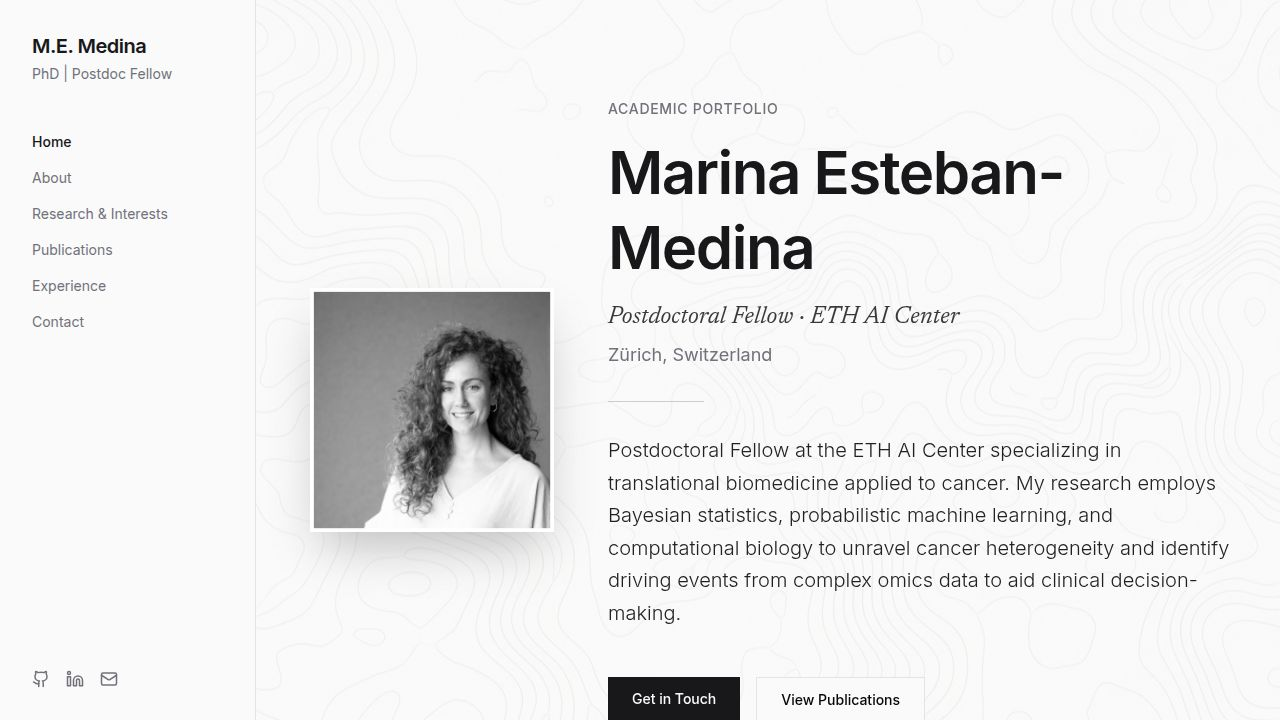
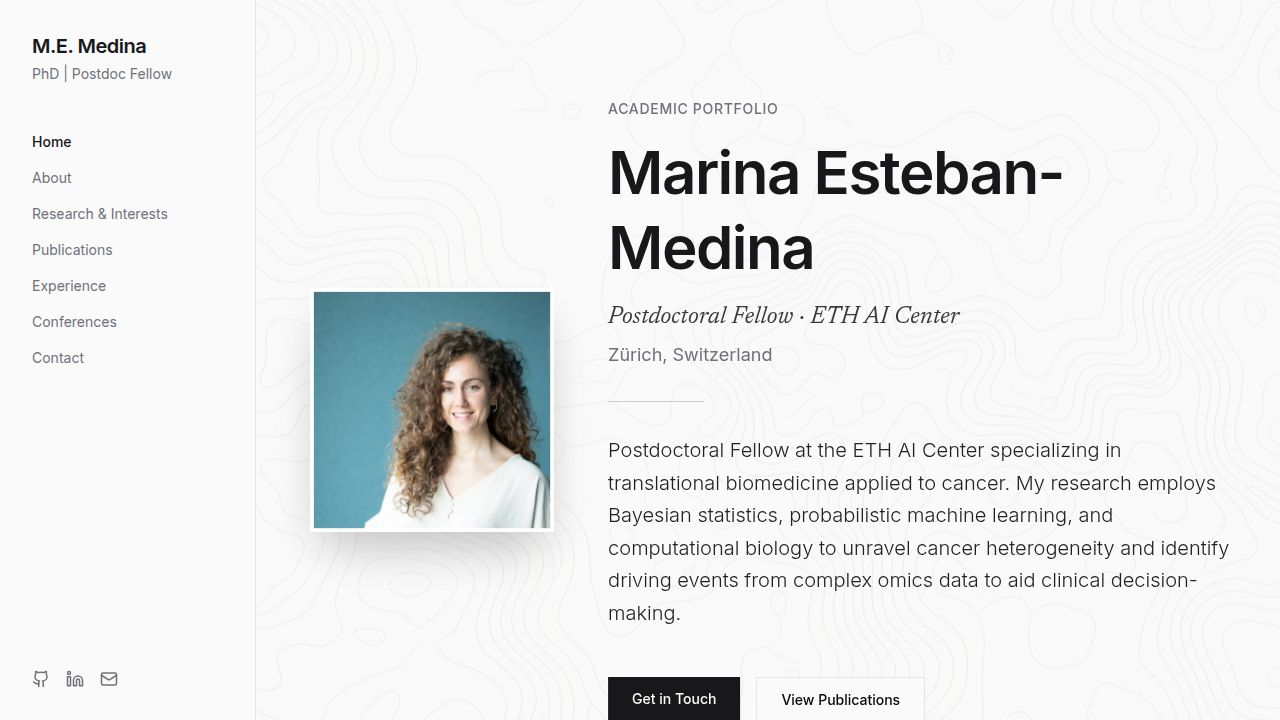
Add a section for conferences and academic activities
Introduce a new section to display conferences and academic activities, updating data, components, and navigation.

Replit-Commit-Author: Agent
Replit-Commit-Session-Id: 6c38c1ce-d5bb-4b51-ac87-3ee7aa7d4fb6
Replit-Commit-Checkpoint-Type: full_checkpoint
Replit-Commit-Event-Id: 6b08292f-4f81-44f9-a44a-18d3fc9d34d5
Replit-Commit-Screenshot-Url: https://storage.googleapis.com/screenshot-production-us-central1/cc16261b-1624-4cca-9d3c-ff93480edf78/6c38c1ce-d5bb-4b51-ac87-3ee7aa7d4fb6/4Ml0N1j
Replit-Helium-Checkpoint-Created: true

diff --git a/client/src/data/cv.ts b/client/src/data/cv.ts
@@ -15,6 +15,33 @@ export const cv = {
       scholar: "https://scholar.google.com/citations?user=shSxsNIAAAAJ&hl=en"
     }
   },
+  conferences: [
+    { date: "October 2025", name: "Mathematical foundations of trustworthy Machine learning", location: "ETH Zürich, Ascona, Switzerland" },
+    { date: "September 2025", name: "Basel Computational Biology Conference (BC2)", location: "Basel, Switzerland" },
+    { date: "November 2024", name: "ELIXIR Biohackathon Europe", location: "Barcelona, Spain" },
+    { date: "November 2024", name: "Jornadas Andaluzas de Bioinformática II", location: "Granada, Spain" },
+    { date: "October 2023", name: "ELIXIR Biohackathon Europe", location: "Barcelona, Spain" },
+    { date: "September 2023", name: "6th Course on Computational Systems Biology of Cancer", location: "Paris, France" },
+    { date: "September 2023", name: "Jornadas Andaluzas de Bioinformática", location: "Sevilla, Spain" },
+    { date: "April 2023", name: "The 7th Disease Maps Community Meeting", location: "Maastricht, the Netherlands" },
+    { date: "November 2022", name: "First FEBS-IUBMB-ENABLE conference", location: "Seville, Spain" },
+    { date: "July 2022", name: "Radboudumc Ph.D. conference", location: "Nijmegen, Netherlands" },
+    { date: "June 2022", name: "European Association for Cancer Research 2022 Congress", location: "Sevilla, Spain" },
+    { date: "May 2022", name: "XV Reunión Anual CIBERER", location: "Spain" },
+    { date: "March 2022", name: "VI Jornadas de Bioinformática", location: "Granada, Spain" },
+    { date: "November 2021", name: "6th Disease Maps Community Meeting", location: "Online" },
+    { date: "July 2021", name: "ISMB/ECCB 2021", location: "Online" },
+    { date: "July 2021", name: "CIBERER XIV Annual meeting", location: "Online" },
+    { date: "April 2021", name: "The 4th MAQC Society Meeting", location: "Online" },
+    { date: "March 2021", name: "XVII Foro de Investigadores", location: "Sevilla, Spain" },
+    { date: "February 2021", name: "IV Spanish Bioinformatic conference", location: "Granada, Spain" },
+    { date: "November 2020", name: "BioHackathon 2020", location: "Online" },
+    { date: "April 2020", name: "EUvsVirus Hackathon", location: "Online" },
+    { date: "November 2019", name: "Advanced in computational biology (AdvCompBio 2019)", location: "Barcelona, Spain" },
+    { date: "November 2019", name: "Biohackathon Europe", location: "Paris, France" },
+    { date: "October 2019", name: "4th Disease Maps Community Meeting (DMCM2019)", location: "Sevilla, Spain" },
+    { date: "December 2018", name: "XIV Symposium on Bioinformatics", location: "Granada, Spain" }
+  ],
   education: [
     {
       degree: "PhD",

diff --git a/client/src/components/Conferences.tsx b/client/src/components/Conferences.tsx
@@ -1,0 +1,45 @@
+import { cv } from "@/data/cv";
+import { motion } from "framer-motion";
+
+export function Conferences() {
+  const conferences = (cv as any).conferences || [];
+
+  return (
+    <section id="conferences" className="py-24 bg-background">
+      <div className="container px-6 md:px-12">
+        <motion.div
+          initial={{ opacity: 0, y: 20 }}
+          whileInView={{ opacity: 1, y: 0 }}
+          viewport={{ once: true }}
+          transition={{ duration: 0.6 }}
+        >
+          <h2 className="text-3xl font-bold mb-12 flex items-center gap-4">
+            <span className="w-8 h-px bg-primary/20"></span>
+            Conferences & Academic Activities
+          </h2>
+
+          <div className="grid grid-cols-1 gap-6">
+            {conferences.map((conf: any, idx: number) => (
+              <div 
+                key={idx}
+                className="group flex flex-col md:flex-row md:items-center gap-2 md:gap-8 p-4 border border-border hover:bg-secondary/10 transition-colors"
+              >
+                <div className="md:w-32 flex-shrink-0">
+                  <span className="text-sm font-mono text-muted-foreground">{conf.date}</span>
+                </div>
+                <div className="flex-grow">
+                  <h3 className="font-medium text-foreground group-hover:text-primary transition-colors">
+                    {conf.name}
+                  </h3>
+                </div>
+                <div className="md:w-48 text-right">
+                  <span className="text-sm text-muted-foreground italic">{conf.location}</span>
+                </div>
+              </div>
+            ))}
+          </div>
+        </motion.div>
+      </div>
+    </section>
+  );
+}

diff --git a/client/src/App.tsx b/client/src/App.tsx
@@ -4,6 +4,7 @@ import { About } from "@/components/About";
 import { Research } from "@/components/Research";
 import { Publications } from "@/components/Publications";
 import { Experience } from "@/components/Experience";
+import { Conferences } from "@/components/Conferences";
 import { Contact } from "@/components/Contact";
 import { Toaster } from "@/components/ui/toaster";
 
@@ -17,6 +18,7 @@ function App() {
         <Research />
         <Publications />
         <Experience />
+        <Conferences />
         <Contact />
       </main>
       <Toaster />

diff --git a/client/src/components/Sidebar.tsx b/client/src/components/Sidebar.tsx
@@ -17,6 +17,7 @@ export function Sidebar({ className }: SidebarProps) {
     { id: "research", label: "Research & Interests" },
     { id: "publications", label: "Publications" },
     { id: "experience", label: "Experience" },
+    { id: "conferences", label: "Conferences" },
     { id: "contact", label: "Contact" },
   ];
 
